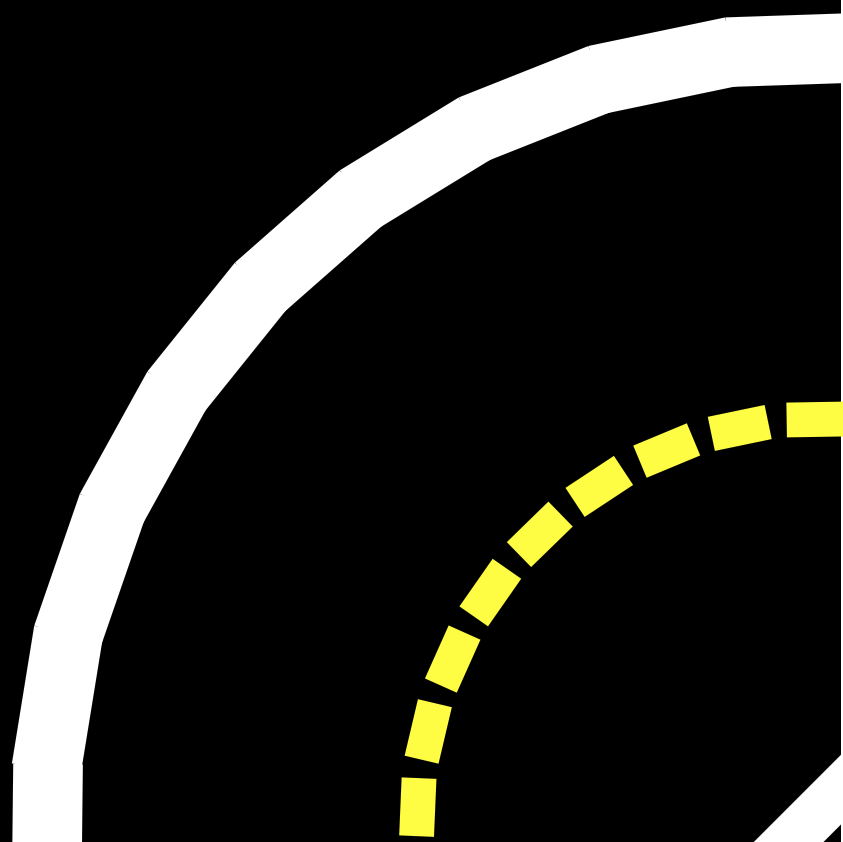
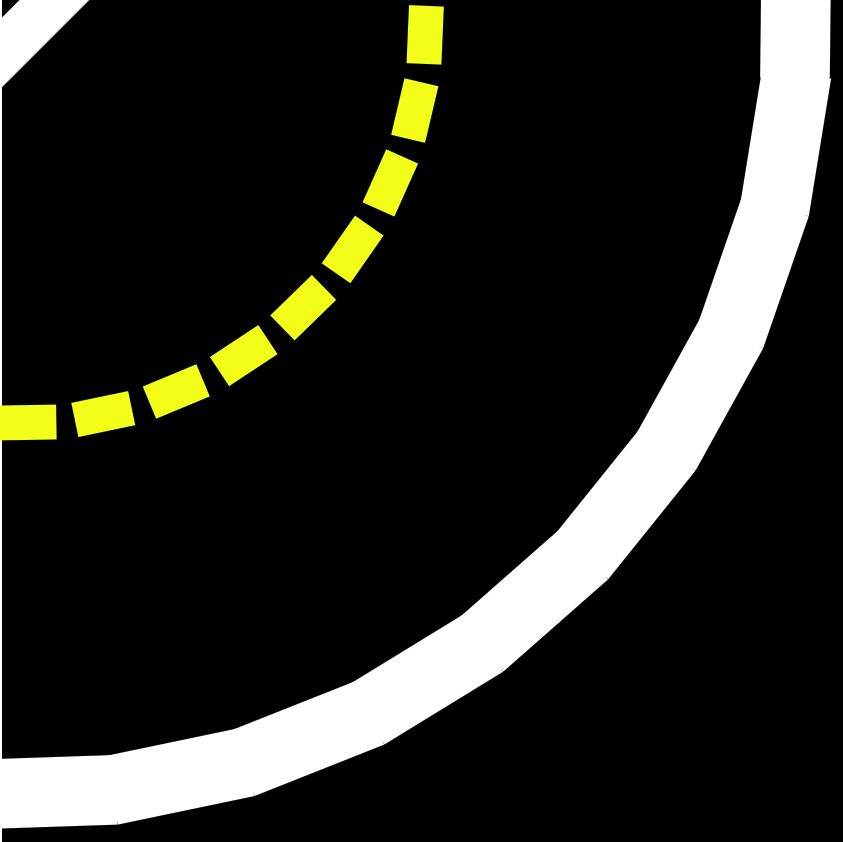
rotation fixes

Changed region(s): [[0.0, 0.0, 1.0, 1.0], [0.0, 0.0, 0.0925, 0.1235]]

diff --git a/packages/map_editor/utils.py b/packages/map_editor/utils.py
@@ -47,20 +47,20 @@ def get_available_translations(lang_dir_path): return {filename[len('lang_'):-le
 
 def get_degree_for_orientation(orientation: str) -> int:
     degrees: dict = {
-        'S': 90, #270 + 180,
-        'E': 0, #180 + 180,
-        'N': 270, #90 + 180,
-        'W': 180, #0 + 180
+        'S': 180,
+        'E': 270,
+        'N': 0,
+        'W': 90,
     }
     return degrees[orientation]
 
 
 def get_orientation_for_degree(degree: int) -> str:
     degrees: dict = {
-         270: 'N',
-         180: 'W',
-         90: 'S',
-         0: 'E'
+         0: 'N',
+         270: 'E',
+         180: 'S',
+         90: 'W'
     }
     return degrees[degree]
 
